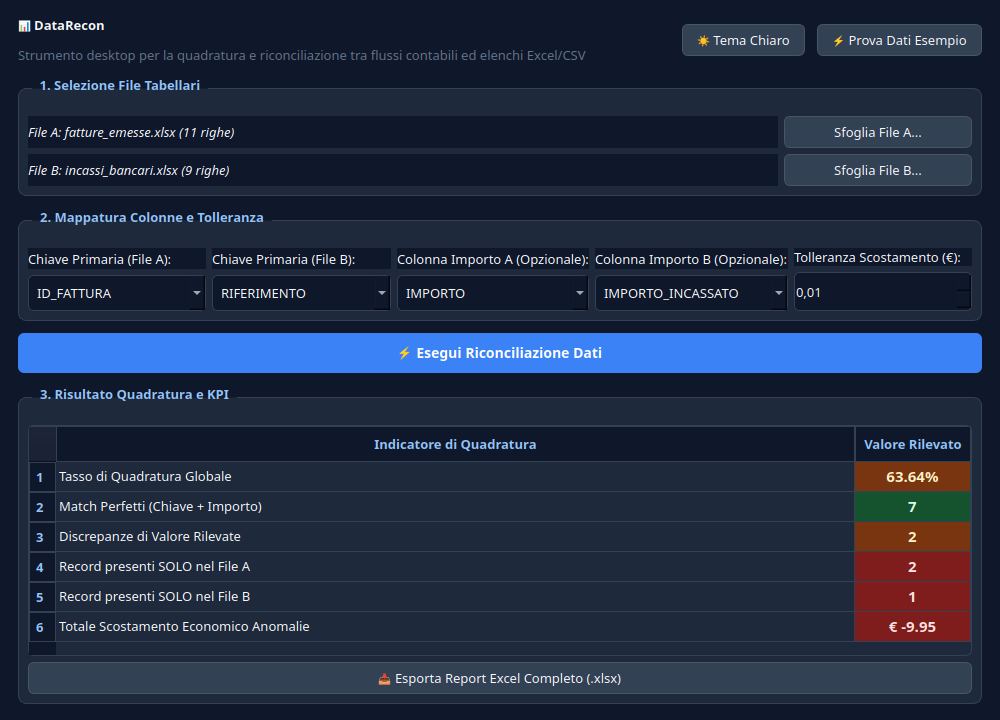
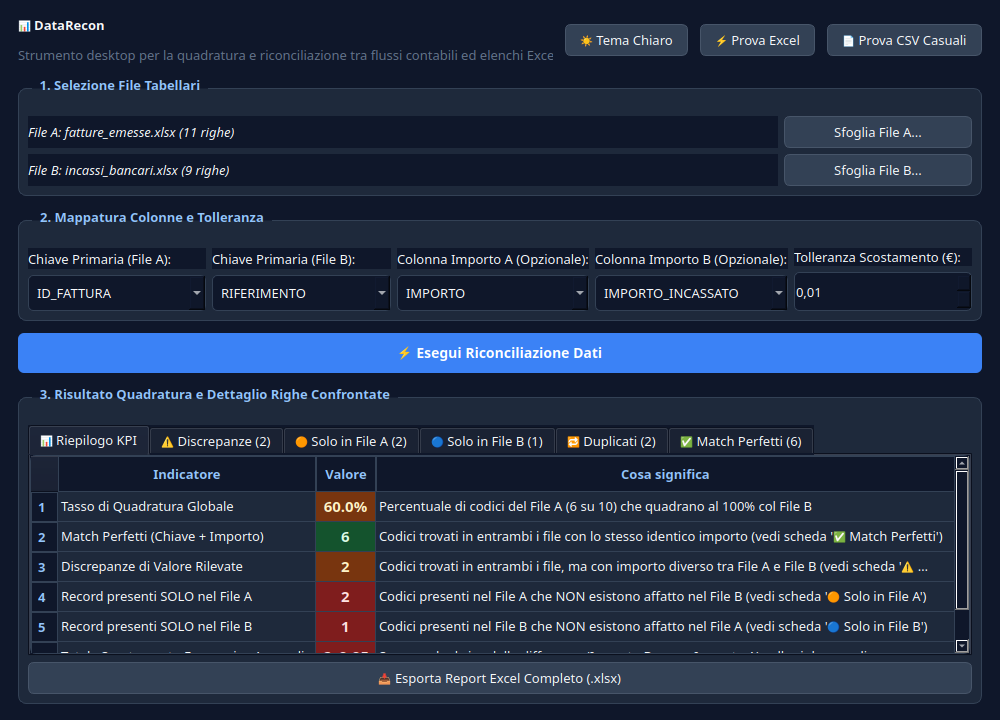
feat: aggiunta schede interattive di dettaglio righe e spiegazione KPI in maschera

Changed region(s): [[0.031, 0.5194, 0.992, 0.9167], [0.558, 0.0306, 0.961, 0.0917], [0.062, 0.5194, 0.093, 0.55]]

diff --git a/CODICE/maschera.py b/CODICE/maschera.py
@@ -18,7 +18,7 @@ from PySide6.QtWidgets import (
     QApplication, QMainWindow, QWidget, QVBoxLayout, QHBoxLayout,
     QLabel, QPushButton, QFileDialog, QComboBox, QDoubleSpinBox,
     QGroupBox, QTableWidget, QTableWidgetItem, QMessageBox, QHeaderView,
-    QFrame
+    QFrame, QTabWidget
 )
 
 from CODICE.lettura import carica_file
@@ -296,15 +296,32 @@ class FinestraPrincipale(QMainWindow):
         self.btn_elabora.clicked.connect(self.esegui_riconciliazione)
         layout_principale.addWidget(self.btn_elabora)
 
-        # 5. Dashboard Risultati
-        box_risultati = QGroupBox("3. Risultato Quadratura e KPI")
+        # 5. Dashboard Risultati con Schede di Dettaglio Righe
+        box_risultati = QGroupBox("3. Risultato Quadratura e Dettaglio Righe Confrontate")
         layout_risultati = QVBoxLayout(box_risultati)
 
-        self.tabella_kpi = QTableWidget(6, 2)
-        self.tabella_kpi.setHorizontalHeaderLabels(["Indicatore di Quadratura", "Valore Rilevato"])
-        self.tabella_kpi.horizontalHeader().setSectionResizeMode(0, QHeaderView.Stretch)
+        self.tabs_risultati = QTabWidget()
+
+        self.tabella_kpi = QTableWidget(6, 3)
+        self.tabella_kpi.setHorizontalHeaderLabels(["Indicatore", "Valore", "Cosa significa"])
+        self.tabella_kpi.horizontalHeader().setSectionResizeMode(0, QHeaderView.ResizeToContents)
         self.tabella_kpi.horizontalHeader().setSectionResizeMode(1, QHeaderView.ResizeToContents)
-        layout_risultati.addWidget(self.tabella_kpi)
+        self.tabella_kpi.horizontalHeader().setSectionResizeMode(2, QHeaderView.Stretch)
+
+        self.tab_discrepanze = QTableWidget()
+        self.tab_solo_a = QTableWidget()
+        self.tab_solo_b = QTableWidget()
+        self.tab_duplicati = QTableWidget()
+        self.tab_match = QTableWidget()
+
+        self.tabs_risultati.addTab(self.tabella_kpi, "📊 Riepilogo KPI")
+        self.tabs_risultati.addTab(self.tab_discrepanze, "⚠ Discrepanze Importo")
+        self.tabs_risultati.addTab(self.tab_solo_a, "🟠 Solo in File A")
+        self.tabs_risultati.addTab(self.tab_solo_b, "🔵 Solo in File B")
+        self.tabs_risultati.addTab(self.tab_duplicati, "🔁 Duplicati")
+        self.tabs_risultati.addTab(self.tab_match, "✅ Match Perfetti")
+
+        layout_risultati.addWidget(self.tabs_risultati)
 
         # Azione Esporta Excel
         self.btn_esporta = QPushButton("📥 Esporta Report Excel Completo (.xlsx)")
@@ -424,18 +441,70 @@ class FinestraPrincipale(QMainWindow):
         except Exception as e:
             QMessageBox.critical(self, "Errore durante la Quadratura", f"Si è verificato un errore:\n{e}")
 
+    def _popola_tabella_df(self, tabella: QTableWidget, df: pd.DataFrame):
+        tabella.clear()
+        if df is None or df.empty:
+            tabella.setRowCount(1)
+            tabella.setColumnCount(1)
+            tabella.setHorizontalHeaderLabels(["Risultato"])
+            tabella.setItem(0, 0, QTableWidgetItem("Nessun record presente in questa categoria."))
+            tabella.horizontalHeader().setSectionResizeMode(0, QHeaderView.Stretch)
+            return
+
+        tabella.setRowCount(len(df))
+        tabella.setColumnCount(len(df.columns))
+        tabella.setHorizontalHeaderLabels([str(c) for c in df.columns])
+
+        for r_idx, row in enumerate(df.itertuples(index=False)):
+            for c_idx, val in enumerate(row):
+                testo = f"{val:.2f}" if isinstance(val, float) else str(val if pd.notna(val) else "")
+                item = QTableWidgetItem(testo)
+                tabella.setItem(r_idx, c_idx, item)
+
+        tabella.resizeColumnsToContents()
+
     def _aggiorna_tabella_kpi(self):
         if not self.risultato:
             return
 
         kpi = self.risultato.kpi
         dati = [
-            ("Tasso di Quadratura Globale", f"{kpi['percentuale_quadratura']}%", "VERDE" if kpi['percentuale_quadratura'] > 70 else "AMBRA"),
-            ("Match Perfetti (Chiave + Importo)", str(kpi["match_perfetti"]), "VERDE"),
-            ("Discrepanze di Valore Rilevate", str(kpi["discrepanze_valori"]), "AMBRA" if kpi["discrepanze_valori"] > 0 else "VERDE"),
-            ("Record presenti SOLO nel File A", str(kpi["solo_in_a"]), "ROSSO" if kpi["solo_in_a"] > 0 else "VERDE"),
-            ("Record presenti SOLO nel File B", str(kpi["solo_in_b"]), "ROSSO" if kpi["solo_in_b"] > 0 else "VERDE"),
-            ("Totale Scostamento Economico Anomalie", f"€ {kpi['totale_scostamento_anomalie']:.2f}", "ROSSO" if kpi['totale_scostamento_anomalie'] != 0 else "VERDE"),
+            (
+                "Tasso di Quadratura Globale",
+                f"{kpi['percentuale_quadratura']}%",
+                "VERDE" if kpi['percentuale_quadratura'] > 70 else "AMBRA",
+                f"Percentuale di codici del File A ({kpi['match_perfetti']} su {kpi['chiavi_distinte_a']}) che quadrano al 100% col File B"
+            ),
+            (
+                "Match Perfetti (Chiave + Importo)",
+                str(kpi["match_perfetti"]),
+                "VERDE",
+                "Codici trovati in entrambi i file con lo stesso identico importo (vedi scheda '✅ Match Perfetti')"
+            ),
+            (
+                "Discrepanze di Valore Rilevate",
+                str(kpi["discrepanze_valori"]),
+                "AMBRA" if kpi["discrepanze_valori"] > 0 else "VERDE",
+                "Codici trovati in entrambi i file, ma con importo diverso tra File A e File B (vedi scheda '⚠ Discrepanze')"
+            ),
+            (
+                "Record presenti SOLO nel File A",
+                str(kpi["solo_in_a"]),
+                "ROSSO" if kpi["solo_in_a"] > 0 else "VERDE",
+                "Codici presenti nel File A che NON esistono affatto nel File B (vedi scheda '🟠 Solo in File A')"
+            ),
+            (
+                "Record presenti SOLO nel File B",
+                str(kpi["solo_in_b"]),
+                "ROSSO" if kpi["solo_in_b"] > 0 else "VERDE",
+                "Codici presenti nel File B che NON esistono affatto nel File A (vedi scheda '🔵 Solo in File B')"
+            ),
+            (
+                "Totale Scostamento Economico Anomalie",
+                f"€ {kpi['totale_scostamento_anomalie']:.2f}",
+                "ROSSO" if kpi['totale_scostamento_anomalie'] != 0 else "VERDE",
+                "Somma algebrica delle differenze (Importo B meno Importo A) sulle righe con discrepanza"
+            ),
         ]
 
         # Colori secondo skill grafica (con contrasto garantito sfondo + testo)
@@ -456,7 +525,7 @@ class FinestraPrincipale(QMainWindow):
 
         mode = "dark" if self.is_dark else "light"
 
-        for row_idx, (nome, valore, stato) in enumerate(dati):
+        for row_idx, (nome, valore, stato, spiegazione) in enumerate(dati):
             item_nome = QTableWidgetItem(nome)
             item_val = QTableWidgetItem(valore)
             item_val.setTextAlignment(Qt.AlignCenter)
@@ -466,8 +535,25 @@ class FinestraPrincipale(QMainWindow):
             item_val.setBackground(QBrush(bg))
             item_val.setForeground(QBrush(fg))
 
+            item_spieg = QTableWidgetItem(spiegazione)
+
             self.tabella_kpi.setItem(row_idx, 0, item_nome)
             self.tabella_kpi.setItem(row_idx, 1, item_val)
+            self.tabella_kpi.setItem(row_idx, 2, item_spieg)
+
+        # Popola le schede di dettaglio righe
+        self._popola_tabella_df(self.tab_discrepanze, self.risultato.df_discrepanze)
+        self._popola_tabella_df(self.tab_solo_a, self.risultato.df_solo_a)
+        self._popola_tabella_df(self.tab_solo_b, self.risultato.df_solo_b)
+        df_dup = pd.concat([self.risultato.df_duplicati_a, self.risultato.df_duplicati_b], ignore_index=True)
+        self._popola_tabella_df(self.tab_duplicati, df_dup)
+        self._popola_tabella_df(self.tab_match, self.risultato.df_match)
+
+        self.tabs_risultati.setTabText(1, f"⚠ Discrepanze ({len(self.risultato.df_discrepanze)})")
+        self.tabs_risultati.setTabText(2, f"🟠 Solo in File A ({len(self.risultato.df_solo_a)})")
+        self.tabs_risultati.setTabText(3, f"🔵 Solo in File B ({len(self.risultato.df_solo_b)})")
+        self.tabs_risultati.setTabText(4, f"🔁 Duplicati ({len(df_dup)})")
+        self.tabs_risultati.setTabText(5, f"✅ Match Perfetti ({len(self.risultato.df_match)})")
 
     def esporta_report(self):
         if not self.risultato:

diff --git a/CODICE/motore.py b/CODICE/motore.py
@@ -106,13 +106,21 @@ def riconcilia_tabelle(
         maschera_match = scostamento_assoluto <= tolleranza
         maschera_disc = ~maschera_match
 
-        merged["VALORE_A"] = val_a
-        merged["VALORE_B"] = val_b
-        merged["SCOSTAMENTO"] = diff
+        merged["CHIAVE"] = merged["_CHIAVE_NORM"]
+        merged["VALORE_A"] = val_a.round(2)
+        merged["VALORE_B"] = val_b.round(2)
+        merged["DIFFERENZA (B - A)"] = diff.round(2)
         merged["SCOSTAMENTO_ASS"] = scostamento_assoluto
 
-        df_match = merged[maschera_match].drop(columns=["_CHIAVE_NORM", "SCOSTAMENTO_ASS"])
-        df_discrepanze = merged[maschera_disc].drop(columns=["_CHIAVE_NORM", "SCOSTAMENTO_ASS"])
+        colonne_prioritarie = ["CHIAVE", "VALORE_A", "VALORE_B", "DIFFERENZA (B - A)"]
+        altre_colonne = [
+            c for c in merged.columns
+            if c not in colonne_prioritarie + ["_CHIAVE_NORM", "SCOSTAMENTO_ASS"]
+        ]
+        merged_ordinato = merged[colonne_prioritarie + altre_colonne]
+
+        df_match = merged_ordinato[maschera_match].copy()
+        df_discrepanze = merged_ordinato[maschera_disc].copy()
 
         totale_scostamento = float(diff[maschera_disc].sum())
         valore_quadrato = float(val_a[maschera_match].sum())
